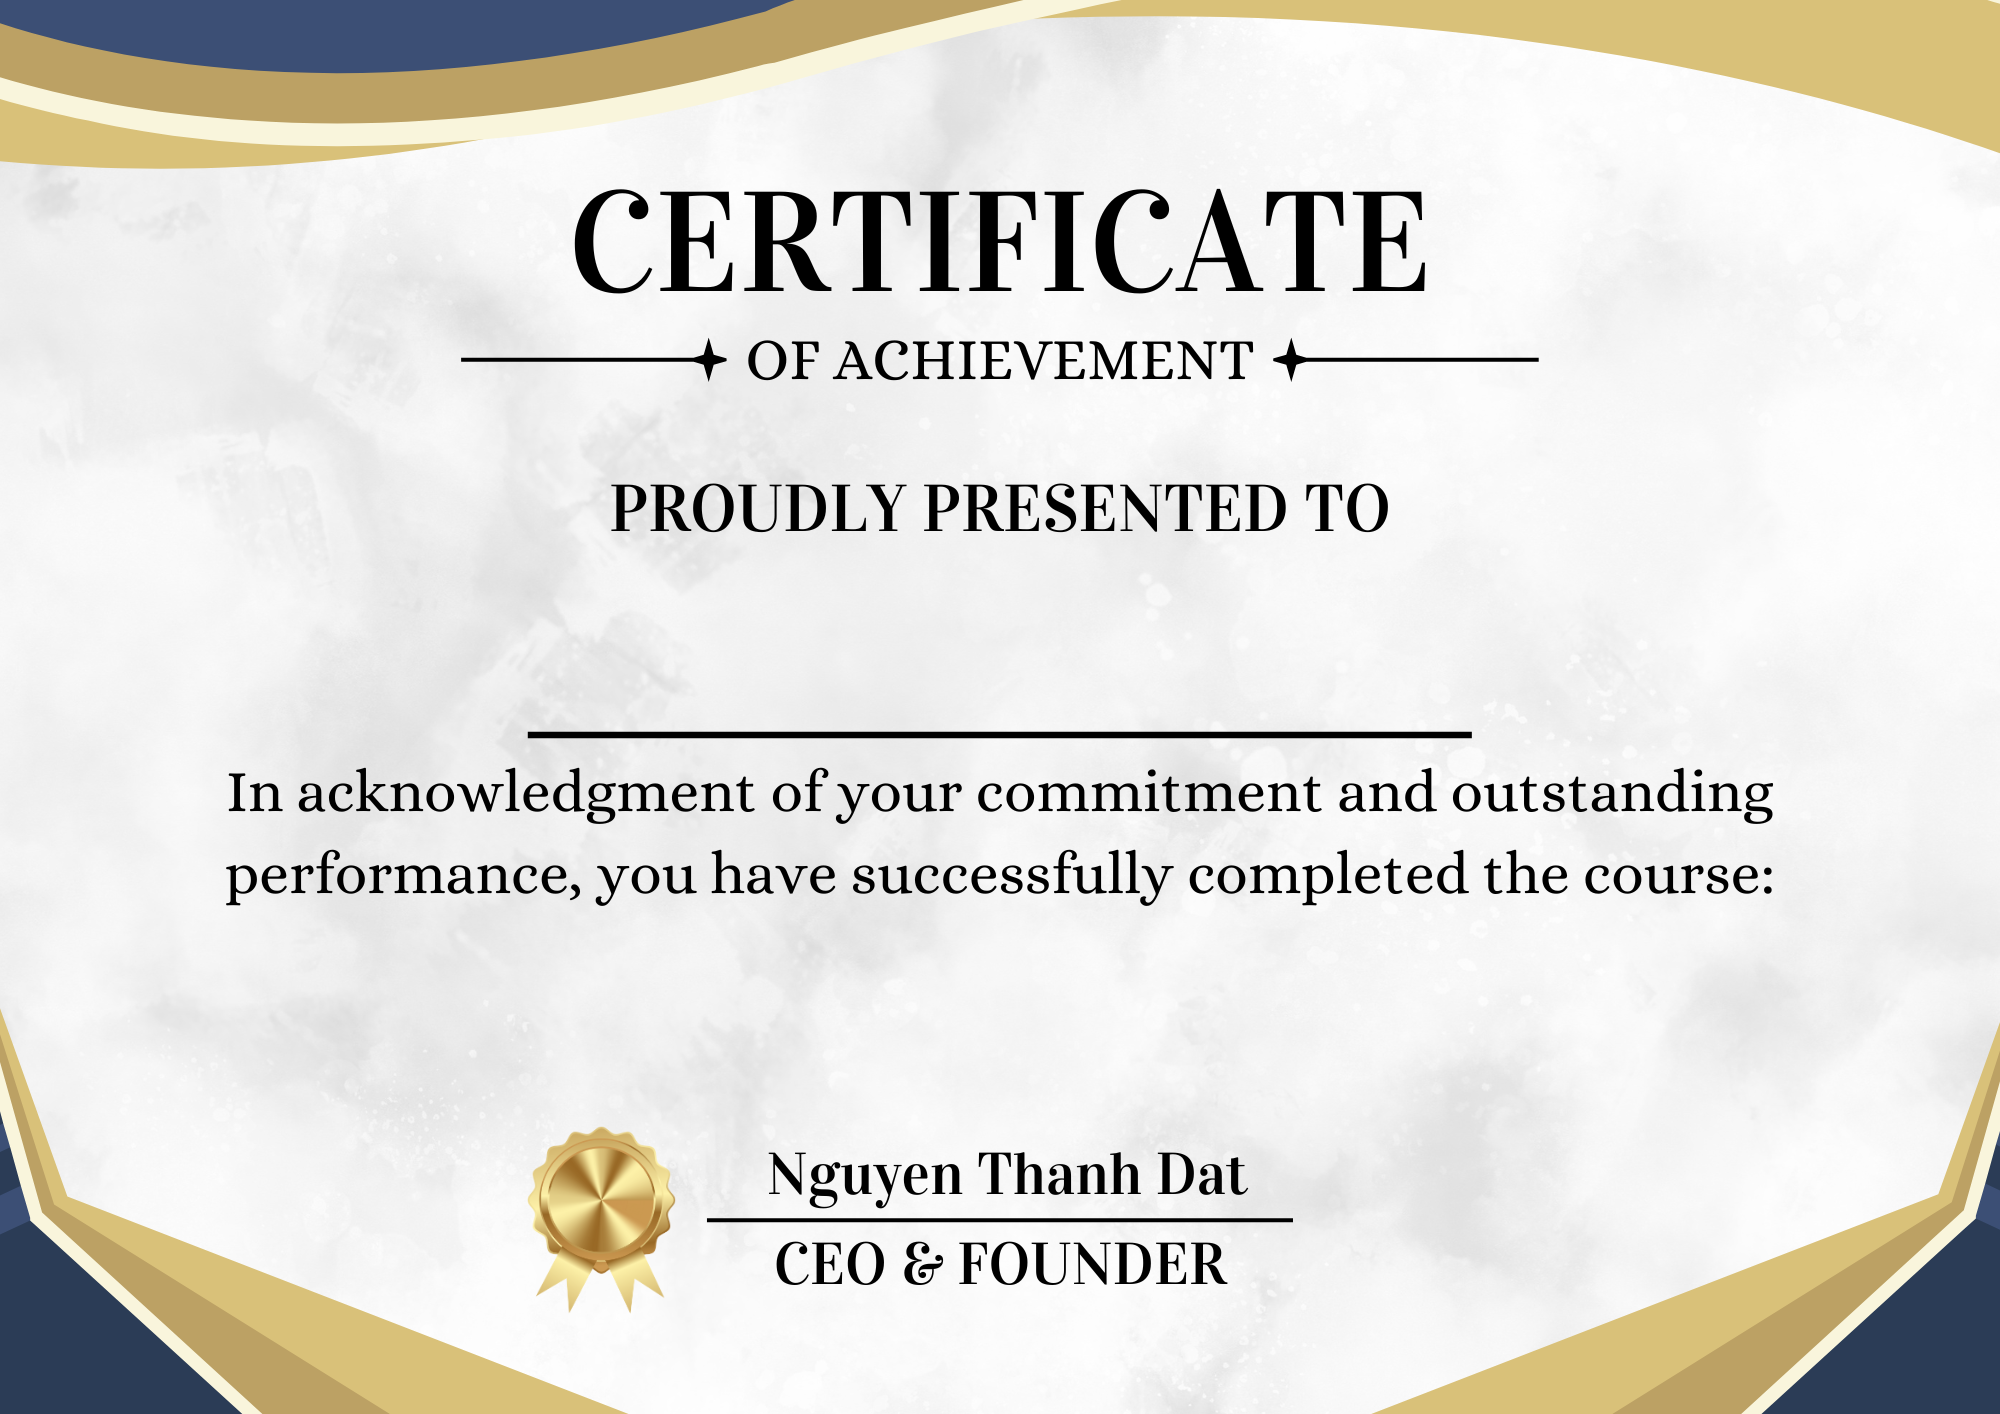
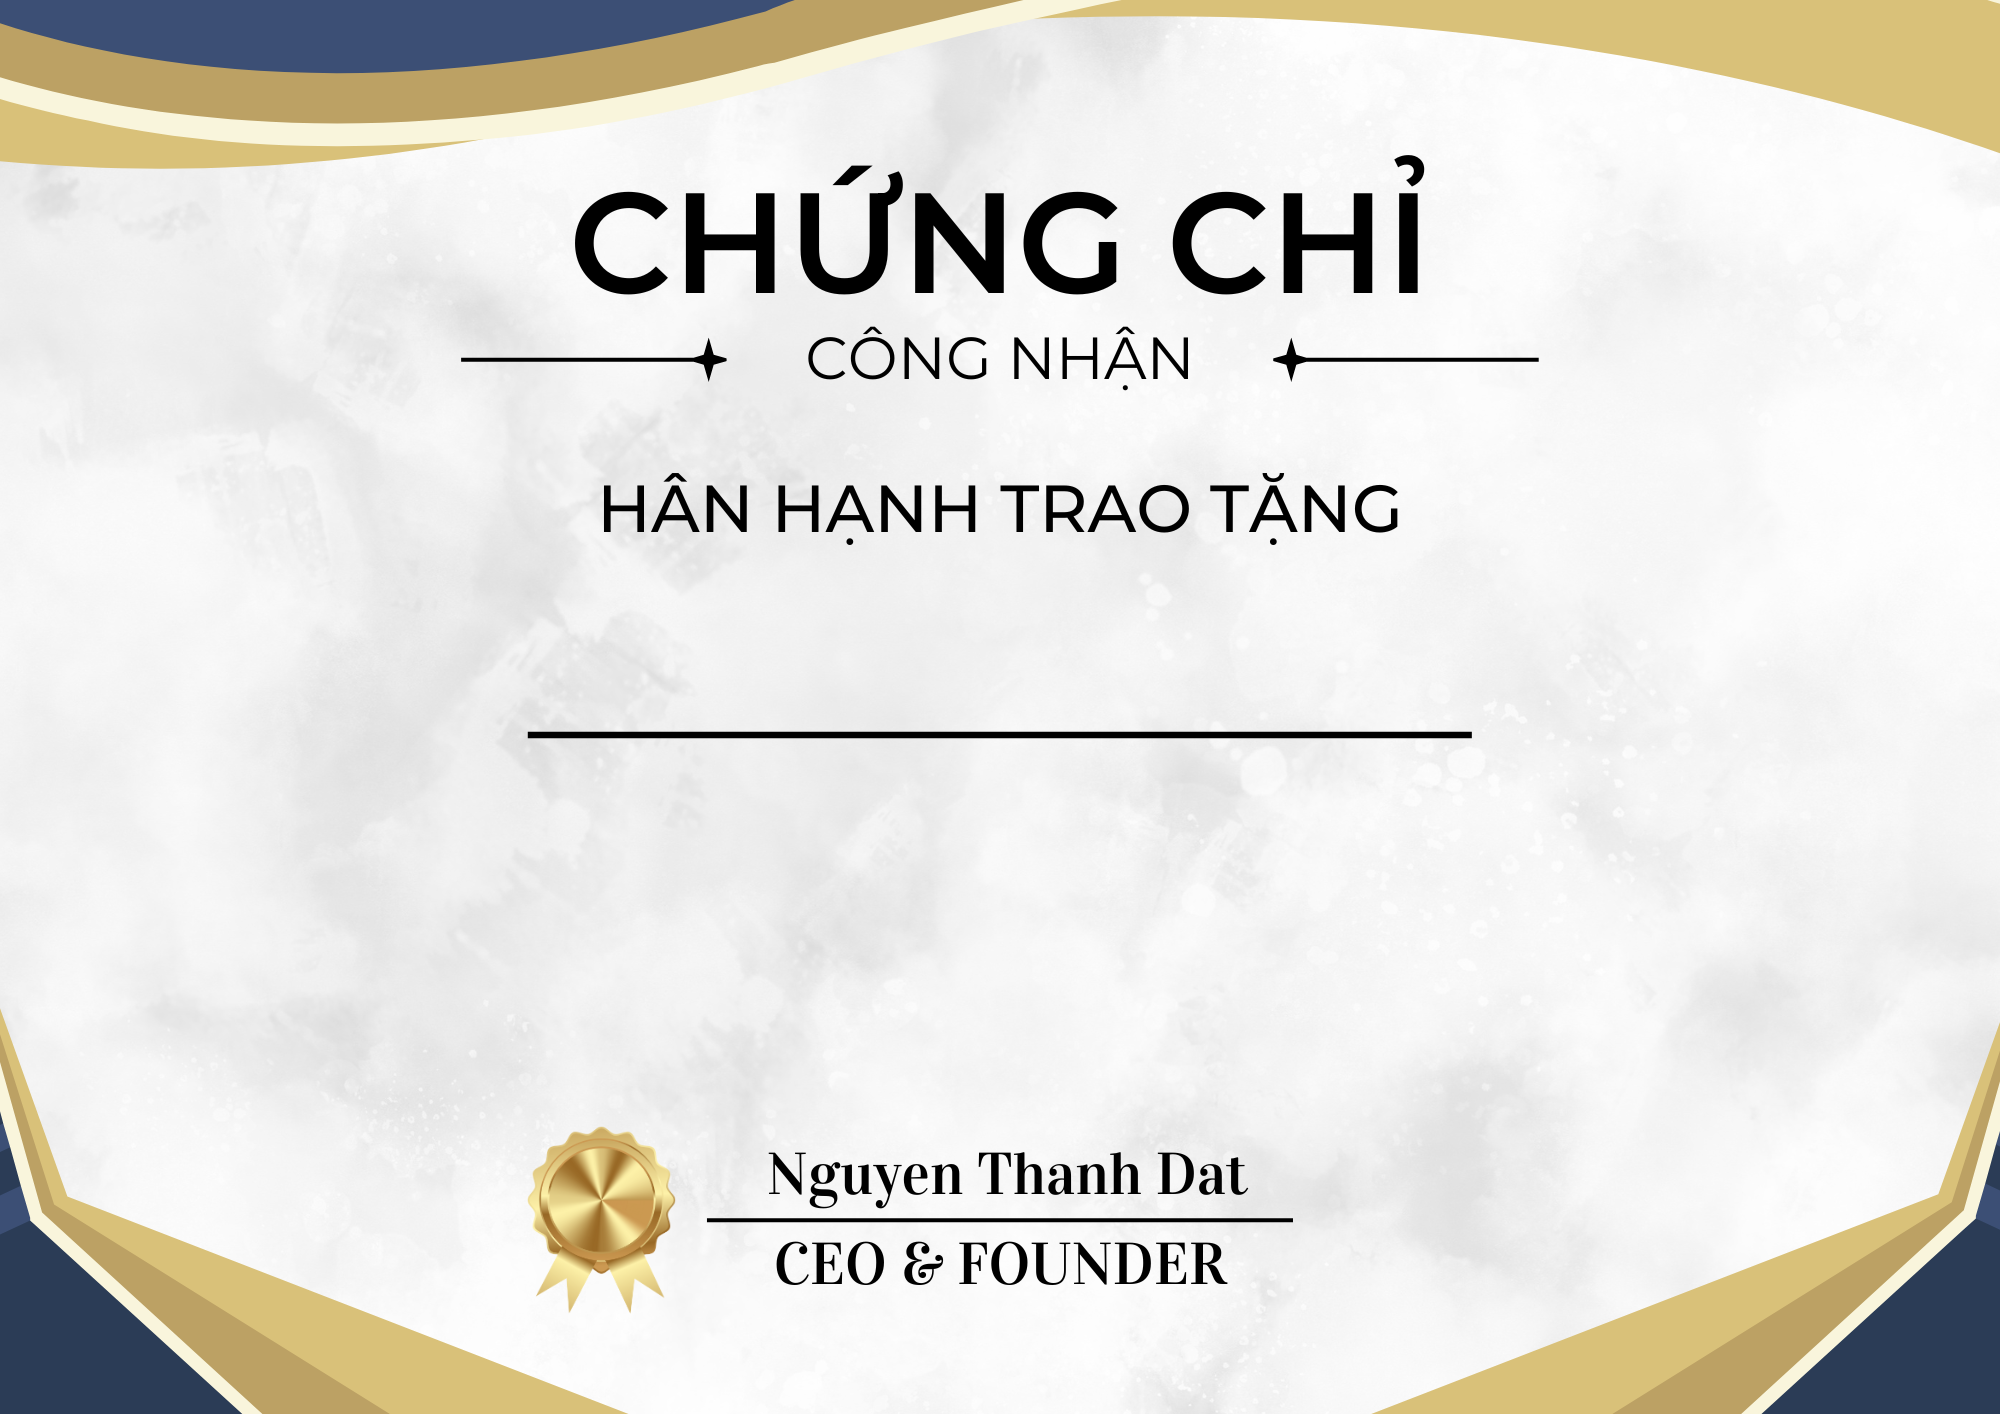
Created certificate page

Changed region(s): [[0.124, 0.529, 0.899, 0.6535], [0.279, 0.0934, 0.713, 0.2801], [0.279, 0.3423, 0.713, 0.3734]]

diff --git a/frontend-dupss/src/components/courses/CourseCertificate.jsx b/frontend-dupss/src/components/courses/CourseCertificate.jsx
@@ -1,0 +1,199 @@
+import { useState, useEffect, useRef } from 'react';
+import { useParams } from 'react-router-dom';
+import { Box, Typography, Button, Alert, Container, Paper } from '@mui/material';
+import DownloadIcon from '@mui/icons-material/Download';
+import ShareIcon from '@mui/icons-material/Share';
+import html2canvas from 'html2canvas';
+
+const CourseCertificate = () => {
+  const { courseId, userId } = useParams();
+  const [certificate, setCertificate] = useState(null);
+  const [showAlert, setShowAlert] = useState(false);
+  const certificateRef = useRef(null);
+
+  // Mock data - sẽ thay thế bằng API call sau này
+  useEffect(() => {
+    // Đây là dữ liệu giả
+    const mockData = {
+      courseTitle: "Kỹ Năng Từ Chối Ma Túy Trong Cuộc Sống Hằng Ngày",
+      userFullname: "Nguyễn Văn A"
+    };
+    
+    setCertificate(mockData);
+    
+    // Trong tương lai, sẽ gọi API ở đây
+    // const fetchCertificateData = async () => {
+    //   try {
+    //     const response = await fetch(`/api/courses/${courseId}/certificate/${userId}`);
+    //     const data = await response.json();
+    //     setCertificate(data);
+    //   } catch (error) {
+    //     console.error("Error fetching certificate data:", error);
+    //   }
+    // };
+    // 
+    // fetchCertificateData();
+  }, [courseId, userId]);
+
+  // Xử lý tải xuống chứng chỉ
+  const handleDownload = () => {
+    if (certificateRef.current) {
+      html2canvas(certificateRef.current, {
+        scale: 2, // Tăng độ phân giải
+        useCORS: true, // Cho phép tải hình ảnh từ domain khác
+        backgroundColor: null // Giữ nguyên nền trong suốt
+      }).then(canvas => {
+        const link = document.createElement("a");
+        link.download = `chung-chi-${certificate?.courseTitle?.replace(/\s+/g, '-').toLowerCase() || 'khoa-hoc'}.png`;
+        link.href = canvas.toDataURL("image/png");
+        link.click();
+      });
+    }
+  };
+
+  // Xử lý chia sẻ (copy URL)
+  const handleShare = () => {
+    navigator.clipboard.writeText(window.location.href);
+    setShowAlert(true);
+    setTimeout(() => setShowAlert(false), 3000);
+  };
+
+  if (!certificate) {
+    return <Box sx={{ p: 4, textAlign: 'center' }}><Typography>Đang tải...</Typography></Box>;
+  }
+
+  // Tính toán fontSize dựa vào độ dài của tên khóa học
+  const getCourseTitleFontSize = () => {
+    const length = certificate.courseTitle.length;
+    if (length > 60) return '1.5rem';
+    if (length > 40) return '1.7rem';
+    if (length > 30) return '1.9rem';
+    return '2.1rem';
+  };
+
+  return (
+    <Container maxWidth="md" sx={{ py: 4 }}>
+      {showAlert && (
+        <Alert 
+          severity="success" 
+          sx={{ position: 'fixed', top: 20, right: 20, zIndex: 9999 }}
+          onClose={() => setShowAlert(false)}
+        >
+          Copy đường dẫn thành công!
+        </Alert>
+      )}
+      
+      <Box sx={{ mb: 3, textAlign: 'center' }}>
+        <Typography variant="h4" component="h1" gutterBottom sx={{fontWeight: 600, color: "#0056b3", fontSize: '2.5rem'}}>
+          Chứng chỉ hoàn thành khóa học
+        </Typography>
+      </Box>
+
+      <Paper 
+        elevation={3} 
+        sx={{ 
+          p: 2, 
+          mb: 3, 
+          position: 'relative',
+          textAlign: 'center',
+          backgroundColor: '#f9f9f9'
+        }}
+      >
+        <Box 
+          ref={certificateRef}
+          sx={{
+            backgroundImage: `url('/certificate.png')`,
+            backgroundSize: 'contain',
+            backgroundRepeat: 'no-repeat',
+            backgroundPosition: 'center',
+            width: '100%',
+            height: 0,
+            paddingBottom: '70%', // Tỉ lệ khung hình
+            position: 'relative',
+          }}
+        >
+          <Typography 
+            variant="h4" 
+            sx={{ 
+              position: 'absolute',
+              top: '45%',
+              left: '50%',
+              transform: 'translate(-50%, -50%)',
+              fontWeight: 'bold',
+              color: '#1a237e',
+              width: '70%',
+              textAlign: 'center',
+              fontFamily: 'Roboto, "Helvetica Neue", sans-serif',
+              textTransform: 'uppercase',
+              fontSize: '2rem'
+            }}
+          >
+            {certificate.userFullname}
+          </Typography>
+          
+          <Typography 
+            variant="h6"
+            sx={{ 
+              position: 'absolute',
+              top: '57%',
+              left: '50%',
+              transform: 'translate(-50%, -50%)',
+              fontStyle: 'italic',
+              color: '#333',
+              width: '80%',
+              textAlign: 'center',
+              lineHeight: 1.5,
+              fontSize: '1.7rem'
+            }}
+          >
+            đã hoàn thành xuất sắc khóa học
+          </Typography>
+          
+          <Typography 
+            variant="h5"
+            sx={{ 
+              position: 'absolute',
+              top: '67%',
+              left: '50%',
+              transform: 'translate(-50%, -50%)',
+              fontWeight: 'bold',
+              color: '#1a237e',
+              width: '85%',
+              textAlign: 'center',
+              fontFamily: 'Roboto, "Helvetica Neue", sans-serif',
+              fontSize: getCourseTitleFontSize(),
+              lineHeight: 1.3,
+              marginTop: '10px',
+              padding: '10px'
+            }}
+          >
+            {certificate.courseTitle}
+          </Typography>
+        </Box>
+      </Paper>
+
+      <Box sx={{ display: 'flex', justifyContent: 'center', gap: 2 }}>
+        <Button 
+          variant="contained" 
+          color="primary" 
+          startIcon={<DownloadIcon />}
+          onClick={handleDownload}
+          size="large"
+        >
+          Tải xuống chứng chỉ
+        </Button>
+        <Button 
+          variant="outlined" 
+          color="primary"
+          startIcon={<ShareIcon />}
+          onClick={handleShare}
+          size="large"
+        >
+          Chia sẻ
+        </Button>
+      </Box>
+    </Container>
+  );
+};
+
+export default CourseCertificate; 

diff --git a/frontend-dupss/src/components/courses/CourseDetail.jsx b/frontend-dupss/src/components/courses/CourseDetail.jsx
@@ -8,7 +8,7 @@ import VideocamIcon from '@mui/icons-material/Videocam';
 import PeopleIcon from '@mui/icons-material/People';
 import PersonIcon from '@mui/icons-material/Person';
 import EmojiEventsIcon from '@mui/icons-material/EmojiEvents';
-import api, { isAuthenticated } from '../../services/authService';
+import api, { isAuthenticated, getUserData } from '../../services/authService';
 import axios from 'axios';
 
 // Styled components to match the original HTML/CSS
@@ -102,6 +102,7 @@ function CourseDetail() {
   const [alertMessage, setAlertMessage] = useState('');
   const [alertSeverity, setAlertSeverity] = useState('success');
   const [isProcessing, setIsProcessing] = useState(false);
+  const [userId, setUserId] = useState(null);
 
   useEffect(() => {
     // Check if there is state passed through navigation
@@ -133,6 +134,14 @@ function CourseDetail() {
     
     fetchCourse();
   }, [id]);
+
+  useEffect(() => {
+    // Lấy thông tin người dùng từ localStorage
+    const userData = getUserData();
+    if (userData && userData.id) {
+      setUserId(userData.id);
+    }
+  }, []);
 
   // Check if user is authenticated
   const checkAuthentication = async () => {
@@ -201,9 +210,13 @@ function CourseDetail() {
   
   // Handle certificate button click
   const handleCertificateClick = () => {
-    // Handle certificate download logic
-    console.log('Download certificate');
-    // TODO: Add API call to download certificate
+    if (!userId) {
+      showAlert('Vui lòng đăng nhập để xem chứng chỉ', 'error');
+      return;
+    }
+    
+    // Điều hướng đến trang chứng chỉ với courseId và userId
+    navigate(`/courses/${id}/cert/${userId}`);
   };
 
   // Get button text based on enrollment status

diff --git a/frontend-dupss/src/App.jsx b/frontend-dupss/src/App.jsx
@@ -13,6 +13,7 @@ import BlogsList from './components/blogs/BlogsList';
 import CoursesList from './components/courses/CoursesList';
 import CourseDetail from './components/courses/CourseDetail';
 import CourseLearning from './components/courses/CourseLearning';
+import CourseCertificate from './components/courses/CourseCertificate';
 import SurveysList from './components/surveys/SurveysList';
 import SurveyDetail from './components/surveys/SurveyDetail';
 import AlertNotification from './components/common/AlertNotification';
@@ -81,6 +82,11 @@ function App() {
         <Route path="/courses/:id/learn" element={
           <Layout>
             <CourseLearning />
+          </Layout>
+        } />
+        <Route path="/courses/:courseId/cert/:userId" element={
+          <Layout>
+            <CourseCertificate />
           </Layout>
         } />
         <Route path="/surveys" element={

diff --git a/frontend-dupss/src/services/authService.js b/frontend-dupss/src/services/authService.js
@@ -199,4 +199,20 @@ export const logout = () => {
 
 export const isAuthenticated = () => {
   return !!localStorage.getItem('accessToken');
+};
+
+// Lấy thông tin người dùng từ token JWT
+export const getUserData = () => {
+  const token = localStorage.getItem('accessToken');
+  if (!token) return null;
+  
+  const decodedToken = parseJwt(token);
+  if (!decodedToken) return null;
+  
+  return {
+    id: decodedToken.sub || decodedToken.id,
+    username: decodedToken.preferred_username || decodedToken.username,
+    email: decodedToken.email,
+    roles: decodedToken.roles || []
+  };
 }; 
